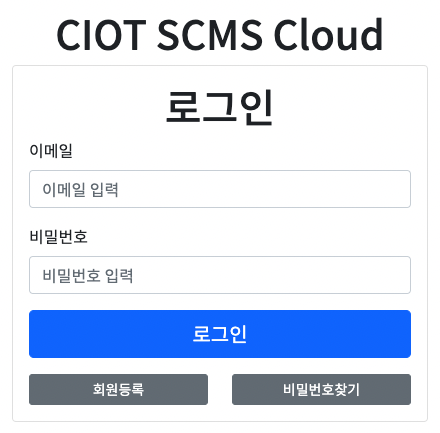
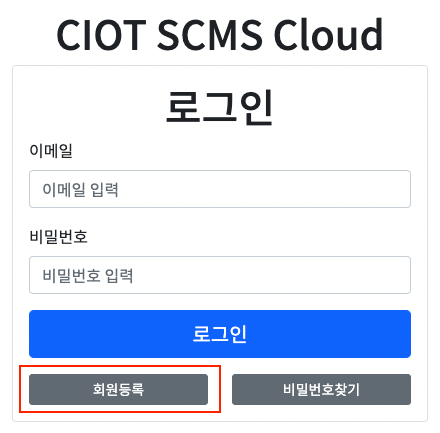
회원가입 완료

Changed region(s): [[0.0295, 0.8406, 0.5023, 0.9607]]

diff --git a/pages/회원가입_및_이메일_인증.md b/pages/회원가입_및_이메일_인증.md
@@ -1,13 +1,21 @@
 ## 회원가입 및 이메일 인증
 
 회원가입은 인증을 위한 이메일 주소만을 통해 회원가입하며\
-다른 정보는 필요치 않습니다.
+다른 정보는 필요하지 않습니다.
 
 ### 가입절차
 
 1. 회원등록 버튼을 클릭한다.
 
-<img src="/assets/reg01.png" alt="main">
+<img src="../assets/reg01.png" alt="main">
 
-2. 
+2. 이메일과 비밀번호를 입력하고 약관동의 체크박스를 클릭한다.
+
+<img src="../assets/reg02.png" alt="main">
+
+3. 팝업으로 뜨는 약관동의 팝업창에 약관동의를 하고 등록 버튼을 누르면 회원가입 확인 링크가 이메일로 발송된다. 발송된 이메일의 링크를 클릭하면 회원가입이 완료된다.
+
+<img src="../assets/reg03.png" alt="main">
+
+
 
